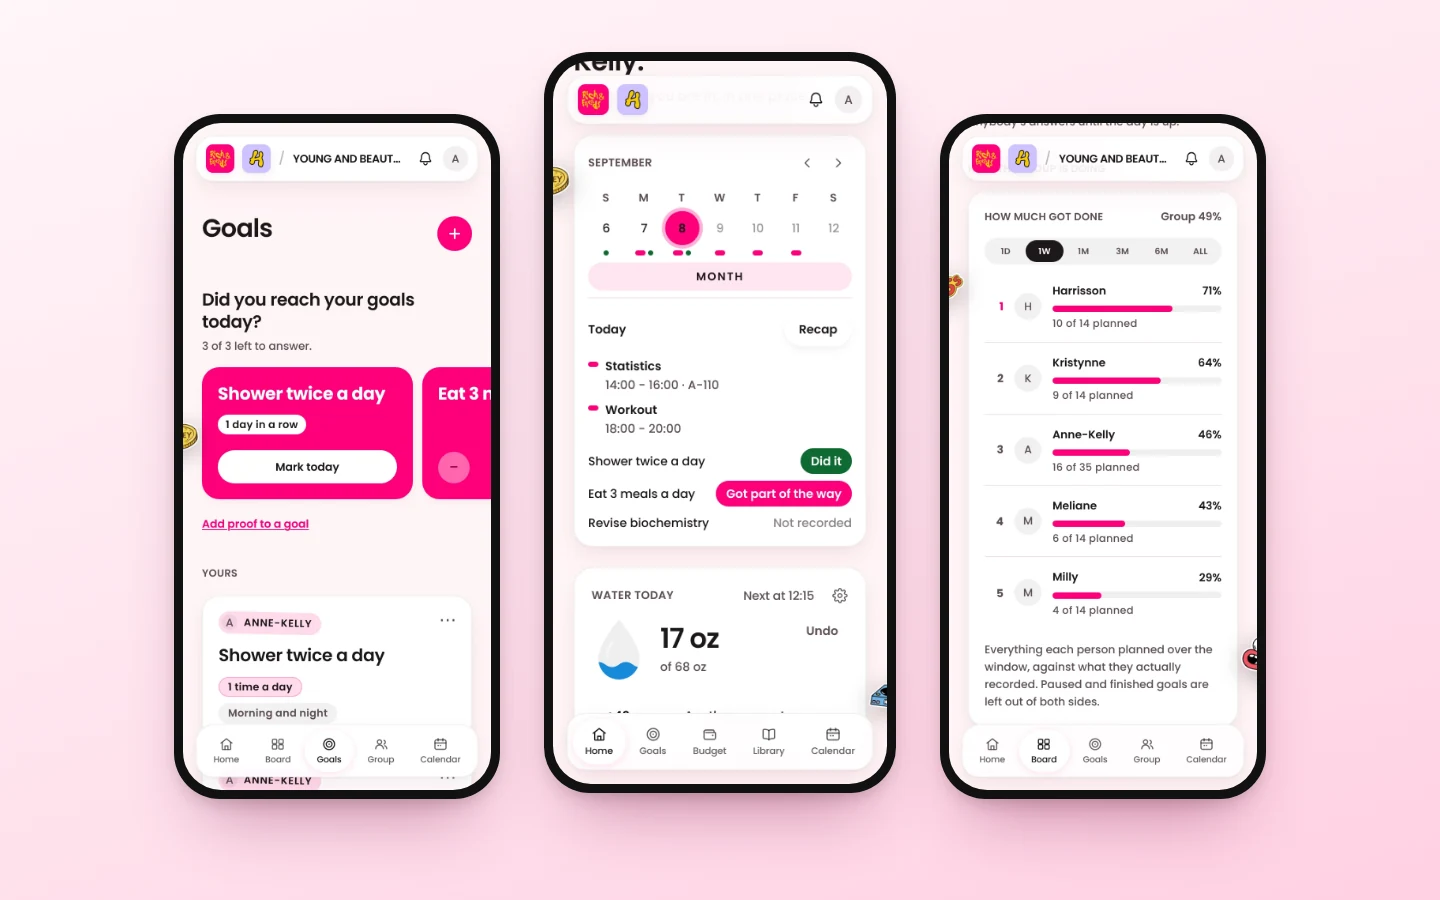
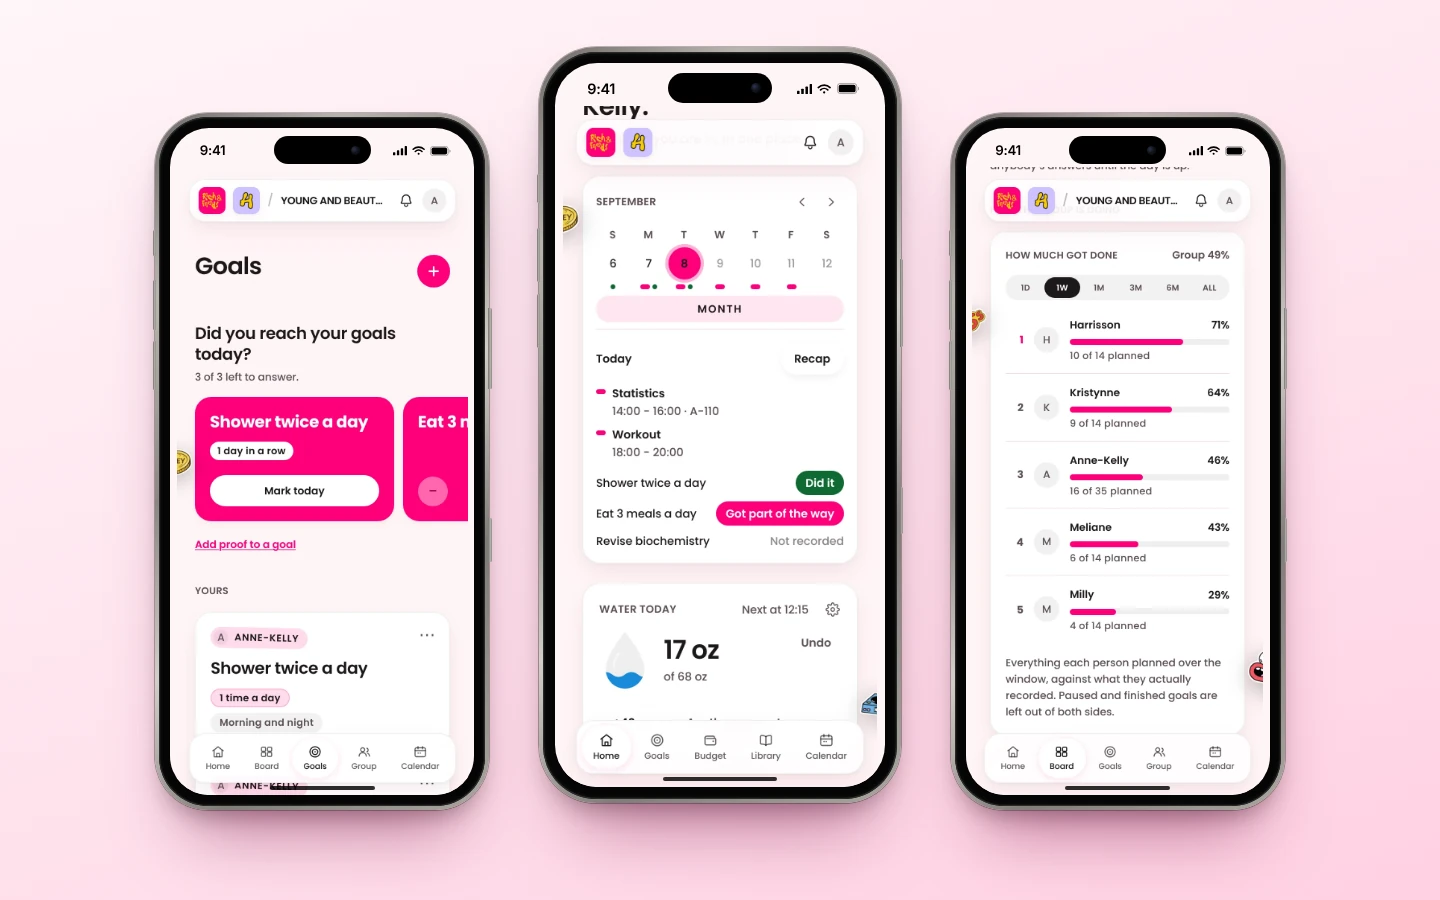
Rich & Friends : les écrans de l'appli dans des cadres d'iPhone
Claude-Session: https://claude.ai/code/session_01TKxGnCcsMCzU4uEZAyVhSN

Changed region(s): [[0.0938, 0.0311, 0.9062, 0.9333]]

diff --git a/index.html b/index.html
@@ -160,7 +160,7 @@
         </a>
         <a class="site-card" href="websites/rich-and-friends/" data-appear="card" data-appear-delay="80">
           <div class="site-card__media">
-            <img class="site-card__desktop" src="assets/img/sites/site-rich-app-960.webp?v=202611160001" srcset="assets/img/sites/site-rich-app-960.webp?v=202611160001 960w, assets/img/sites/site-rich-app-1440.webp?v=202611160001 1440w" sizes="(max-width: 809.98px) 100vw, (max-width: 1199.98px) 92vw, 929px" width="1440" height="900" alt="Three screens of the Rich &amp; Friends app: daily goals, the home calendar and the group board" loading="lazy">
+            <img class="site-card__desktop" src="assets/img/sites/site-rich-app-960.webp?v=202611160002" srcset="assets/img/sites/site-rich-app-960.webp?v=202611160002 960w, assets/img/sites/site-rich-app-1440.webp?v=202611160002 1440w" sizes="(max-width: 809.98px) 100vw, (max-width: 1199.98px) 92vw, 929px" width="1440" height="900" alt="Three iPhones showing the Rich &amp; Friends app: daily goals, the home calendar and the group board" loading="lazy">
           </div>
           <div class="site-card__body">
             <div class="site-card__head">

diff --git a/websites/rich-and-friends/index.html b/websites/rich-and-friends/index.html
@@ -51,7 +51,7 @@
       <h1 class="cs-title t-h2">Rich &amp; Friends</h1>
     </header>
     <figure class="cs-image" data-appear="hero-image">
-      <img src="../../assets/img/sites/site-rich-app-1440.webp?v=202611160001" srcset="../../assets/img/sites/site-rich-app-960.webp?v=202611160001 960w, ../../assets/img/sites/site-rich-app-1440.webp?v=202611160001 1440w" sizes="(max-width: 1199.98px) 100vw, 1000px" width="1440" height="900" alt="Three screens of the Rich &amp; Friends app: daily goals, the home calendar and the group board">
+      <img src="../../assets/img/sites/site-rich-app-1440.webp?v=202611160002" srcset="../../assets/img/sites/site-rich-app-960.webp?v=202611160002 960w, ../../assets/img/sites/site-rich-app-1440.webp?v=202611160002 1440w" sizes="(max-width: 1199.98px) 100vw, 1000px" width="1440" height="900" alt="Three iPhones showing the Rich &amp; Friends app: daily goals, the home calendar and the group board">
     </figure>
   </div>
   <div class="cs-block cs-block--bg" data-appear="section">
